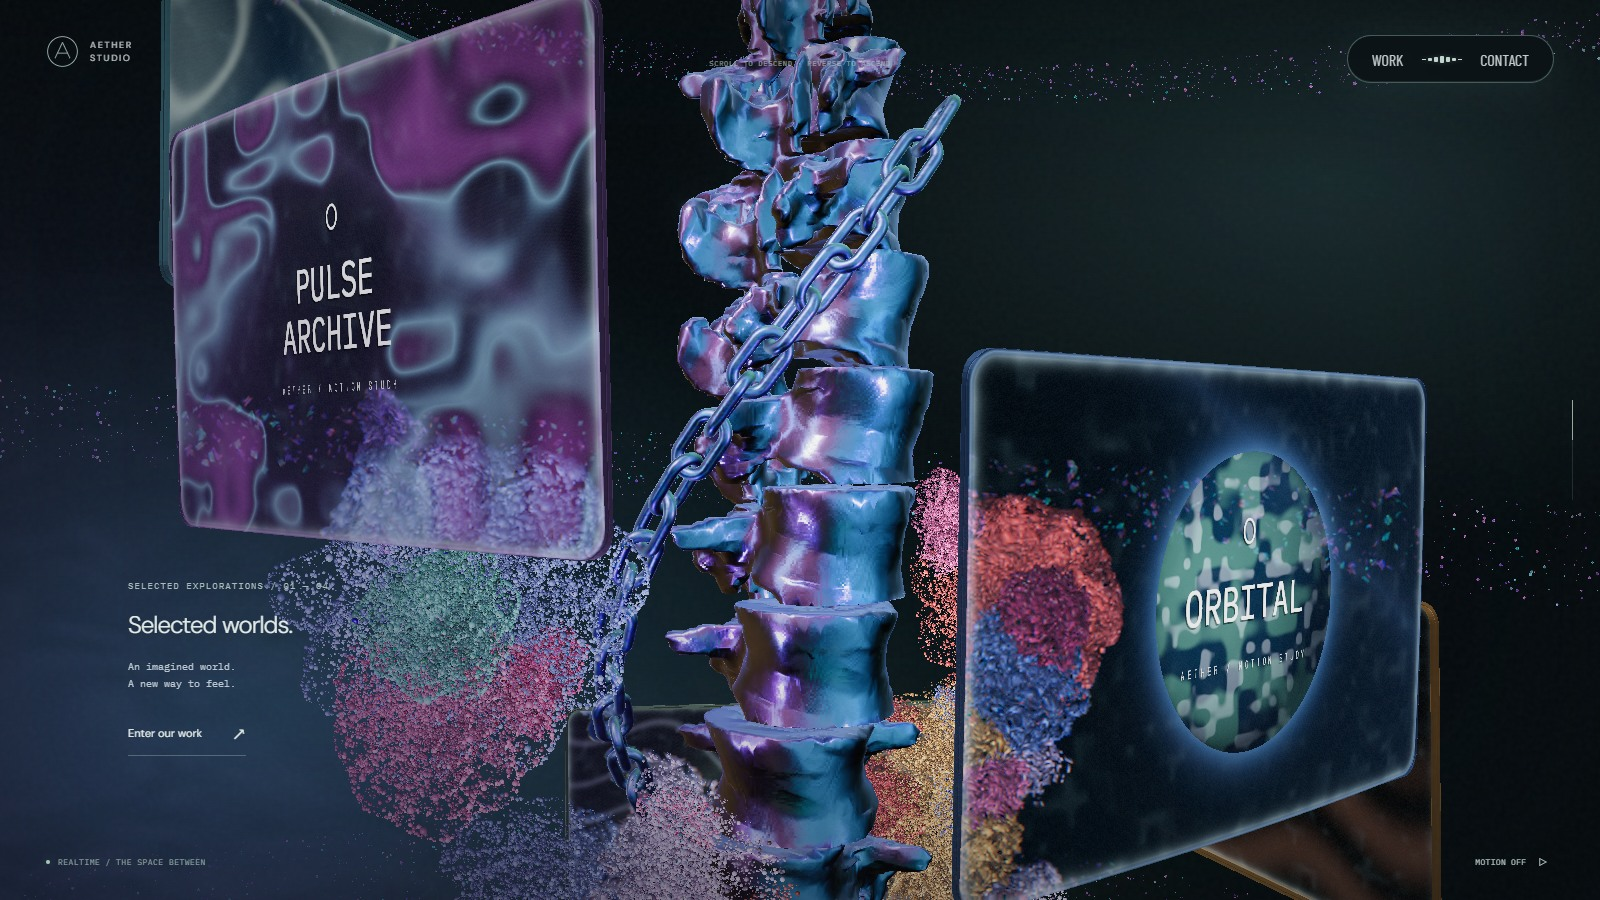
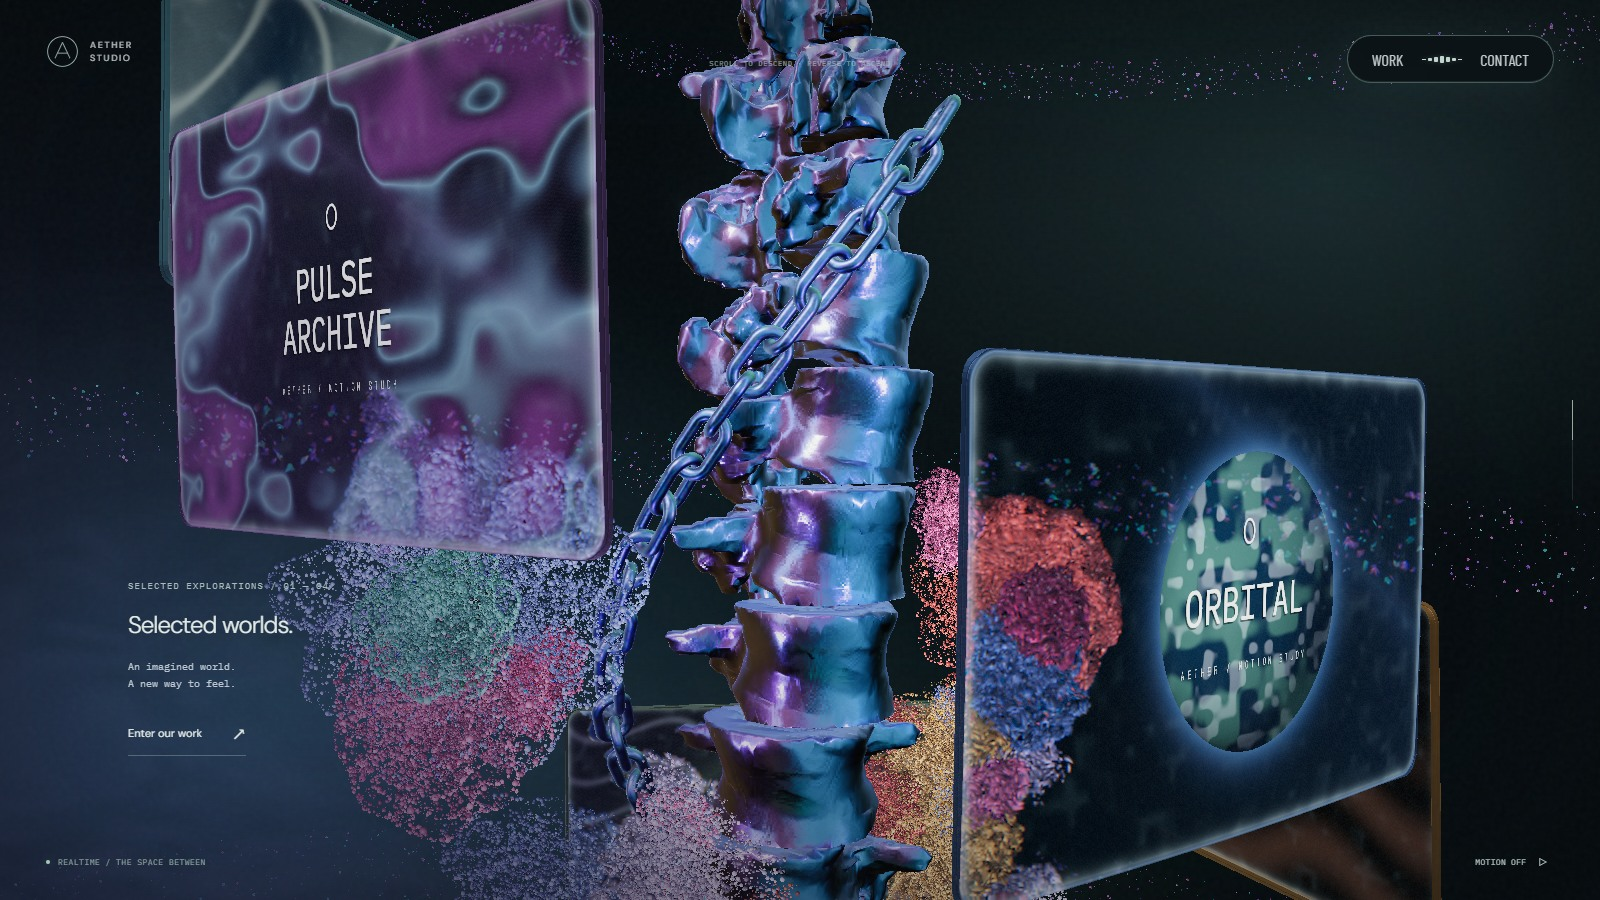
fix: 모니터 입자 간격 검증과 화면 비교 보강

diff --git a/tests/fixtures/height-assembly-harness.ts b/tests/fixtures/height-assembly-harness.ts
@@ -27,8 +27,8 @@ export function probeHeightAssembly() {
   const camera = new THREE.PerspectiveCamera(); camera.position.z = 20
   const monitors = createSceneMonitors(true, false, undefined, [monitorCatalog[0]])
   const parent = new THREE.Group(); parent.position.y = FLOWER_WORLD_Y; parent.add(monitors.group)
-  const read = (cameraY: number, localY: number, baseline = false, blocked = false) => {
-    geometry.getAttribute('aFlowerPosition').setXYZW(0, 0, localY, blocked ? 3.53 : 1, 0)
+  const read = (cameraY: number, localY: number, baseline = false, blocked = false, depth = 3.53) => {
+    geometry.getAttribute('aFlowerPosition').setXYZW(0, 0, localY, blocked ? depth : 1, 0)
     geometry.getAttribute('aFlowerPosition').needsUpdate = true
     geometry.getAttribute('aDust').setW(0, baseline ? -1 : -2)
     geometry.getAttribute('aDust').needsUpdate = true
@@ -55,6 +55,10 @@ export function probeHeightAssembly() {
     const blocked = read(FLOWER_WORLD_Y, 0, true, true)
     const obstacle = monitors.getParticleObstacles()[0]
     const local = new THREE.Vector3(...blocked as [number, number, number]).add(new THREE.Vector3(0,FLOWER_WORLD_Y,0)).applyMatrix4(obstacle.inverse)
+    const approach = Array.from({length: 31}, (_, i) => {
+      const world = read(FLOWER_WORLD_Y, 0, true, true, 2.8 + i * .08)
+      return new THREE.Vector3(...world as [number,number,number]).add(new THREE.Vector3(0,FLOWER_WORLD_Y,0)).applyMatrix4(obstacle.inverse).z
+    })
     const opacities = [.87, .90, .925, .95, 1, .95, .90].map(p => {
       emblem.update(10, p)
       const values: number[] = []
@@ -63,7 +67,7 @@ export function probeHeightAssembly() {
     })
     return { upper, lower, reverse, baseline, local: local.toArray(), clearance: obstacle.half.z,
       count: source.userData.flowerCount, extra: source.userData.reinforcementCount,
-      opacities, error: renderer.getContext().getError() }
+      opacities, approach, error: renderer.getContext().getError() }
   } finally {
     atmosphere.dispose(); monitors.dispose(); emblem.dispose(); chrome.dispose(); filmTexture.dispose()
     geometry.dispose(); material.dispose(); target.dispose(); renderer.dispose(); renderer.forceContextLoss()

diff --git a/tests/fixtures/interaction-harness.ts b/tests/fixtures/interaction-harness.ts
@@ -6,6 +6,7 @@ import { createSceneMonitors } from '../../src/SceneMonitors'
 import { createAtmosphere } from '../../src/Atmosphere'
 import { createSceneForest } from '../../src/SceneForest'
 import { sampleJourney } from '../../src/Journey'
+import { sampleScaleOffset } from '../../src/ScaleStage'
 import { createSceneLayers, sampleEmblemCurtain, sampleLayers } from '../../src/SceneLayers'
 import { bindCurtain, bindGroupCurtain, createCurtainBounds } from '../../src/SceneCurtains'
 import { createLightFilmUniforms } from '../../src/SceneLighting'
@@ -766,8 +767,10 @@ function probeScalePointer() {
   const assembly = createSceneWorlds(modelScene, true)
   const probeScene = new THREE.Scene()
   const probeCamera = new THREE.PerspectiveCamera(42, 4 / 3, .1, 60)
-  probeCamera.position.set(0, -48, 10)
-  probeCamera.lookAt(0, -48, 0)
+  // Follow the panel's scroll offset to isolate pointer shading from framing.
+  const panelY = -48 + sampleScaleOffset(.83)
+  probeCamera.position.set(0, panelY, 10)
+  probeCamera.lookAt(0, panelY, 0)
   probeCamera.updateMatrixWorld()
   assembly.update(10, .83)
   modelScene.updateMatrixWorld(true)
@@ -782,8 +785,8 @@ function probeScalePointer() {
   // fixed oblique key observes the actual hinge shading, without depending
   // on the removed pointer-driven albedo boost or an artificial normal bend.
   const key = new THREE.DirectionalLight(0xffffff, 4)
-  key.position.set(-4, -43, 6)
-  key.target.position.set(0, -48, 0)
+  key.position.set(-4, panelY + 5, 6)
+  key.target.position.set(0, panelY, 0)
   probeScene.add(key, key.target)
   const target = new THREE.WebGLRenderTarget(160, 120)
   const previousTarget = renderer.getRenderTarget()

diff --git a/tests/interaction.spec.ts b/tests/interaction.spec.ts
@@ -50,6 +50,9 @@ async function settledScene(page: Page) {
 test('wheel input descends and reverses before 24 settled scroll checkpoints', async ({
   page,
 }) => {
+  // This journey includes two GPU preparations and 24 settled views. Keep
+  // individual action limits while allowing their measured cumulative cost.
+  test.setTimeout(process.env.CI ? 90_000 : 60_000)
   await readyScene(page)
   const startingView = await settledScene(page)
   let previous = startingView
@@ -131,7 +134,9 @@ test('wheel input descends and reverses before 24 settled scroll checkpoints', a
 test('@interaction production scene accepts background drag and excludes navigation buttons', async ({
   page,
 }) => {
-  test.setTimeout(process.env.CI ? 150_000 : 45_000)
+  // Two full GPU rebuilds and 175+ render frames exceeded the old total 45s
+  // budget; each frame wait and input action retains its existing timeout.
+  test.setTimeout(process.env.CI ? 150_000 : 75_000)
   // Freeze ambient animation time while allowing input and camera interpolation
   // to render. A changed image can then be attributed to the held camera.
   await page.addInitScript(() => {

diff --git a/src/MonitorClearance.ts b/src/MonitorClearance.ts
@@ -19,10 +19,12 @@ export const monitorClearanceGLSL = /* glsl */ `
       vec3 q = (uMonitorInverse[i] * vec4(world, 1.)).xyz;
       vec3 halfSize = uMonitorHalf[i];
       vec2 edge = 1. - smoothstep(halfSize.xy, halfSize.xy + .22, abs(q.xy));
-      float approach = 1. - smoothstep(halfSize.z, halfSize.z + .9, q.z);
       // Deflect inward before the curved glass, with a soft approach outside
       // its edges. Behind the glass, the flower keeps its original silhouette.
-      float push = min(0., -halfSize.z - q.z) * edge.x * edge.y * approach;
+      // A smooth minimum keeps every approaching seed behind the clearance
+      // plane. A depth fade could interpolate a seed back through the glass.
+      float gap = -halfSize.z - q.z;
+      float push = .5 * (gap - sqrt(gap * gap + .016)) * edge.x * edge.y;
       world += uMonitorNormal[i] * push;
     }
     return world;

diff --git a/tests/living-flow.spec.ts b/tests/living-flow.spec.ts
@@ -128,9 +128,12 @@ test('@interaction particle flow keeps anchors separate and stops its scroll dri
     expect(movingFraction).toBeGreaterThan(.18)
     expect(movingFraction).toBeLessThanOrEqual(.2)
     expect(roles.length).toBeGreaterThan(baseCount)
+    const flowerCount = particles.userData.flowerCount as number
+    expect(particles.userData.reinforcementCount).toBe(Math.floor(flowerCount * .4))
+    expect(roles.length).toBe(baseCount + flowerCount + particles.userData.reinforcementCount)
     for (let i = baseCount; i < roles.length; i++) {
       expect(roles[i]).toBe(0)
-      expect(bokeh.getW(i)).toBe(-1)
+      expect(bokeh.getW(i)).toBe(i < baseCount + flowerCount ? -1 : -2)
       expect((bokeh.getX(i) * 7.13) % 1).toBeLessThan(.22)
     }
     for (let i = 0; i < roles.length; i++) if (bokeh.getW(i) > .5) expect(roles[i]).toBe(0)

diff --git a/tests/height-assembly.spec.ts b/tests/height-assembly.spec.ts
@@ -19,6 +19,8 @@ test('@interaction flowers reinforce by camera height, preserve baseline, revers
     expect(poses[i][0]).toBe(poses[0][0]); expect(poses[i][2]).toBe(poses[0][2])
   }
   expect(r.local[2]).toBeLessThanOrEqual(-r.clearance + .00001)
+  for (const depth of r.approach) expect(depth).toBeLessThan(-r.clearance)
+  for (let i = 1; i < r.approach.length; i++) expect(Math.abs(r.approach[i] - r.approach[i-1])).toBeLessThan(.095)
   expect(r.count).toBe(9000); expect(r.extra).toBe(3600)
   // Lower ring material alpha stays constant through both directions of the cut.
   for (const values of r.opacities) expect(values.slice(0, 2)).toEqual([1, 1])

diff --git a/tests/lighting.spec.ts b/tests/lighting.spec.ts
@@ -136,7 +136,7 @@ test('@interaction forest soil and rooted plants persist independently of the wr
     expect(plants.position.y).toBe(-8.7)
     expect(edge(lower).position.y).toBe(-8.7)
     scene.updateMatrixWorld(true)
-    expect(edge(lower).getWorldPosition(new THREE.Vector3()).y).toBeCloseTo(-48.6, 6)
+    expect(edge(lower).getWorldPosition(new THREE.Vector3()).y).toBeCloseTo(-51.6, 6)
     const down = new THREE.Vector3(0,1,0).transformDirection(lower.matrixWorld)
     expect(down.y).toBeCloseTo(-1, 6)
     expect(kinds.count).toBeGreaterThan(5000)

diff --git a/tests/forest-world.spec.ts b/tests/forest-world.spec.ts
@@ -14,6 +14,6 @@ test('@interaction real forest ground keeps its projection when only the wrapper
     expect(p.wrapperMoved).toEqual(p.initial)
     expect(p.restored).toEqual(p.initial)
     expect(Math.abs(p.cameraMoved[0] - p.initial[0])).toBeGreaterThan(.01)
-    expect(p.initial[2]).toBeCloseTo(lower ? -48.6 : -9.9, 1)
+    expect(p.initial[2]).toBeCloseTo(lower ? -51.6 : -9.9, 1)
   }
 })

diff --git a/docs/height-assembly-2026-09-26.md b/docs/height-assembly-2026-09-26.md
@@ -26,12 +26,15 @@
 | --- | --- | --- | --- |
 | 상단 포레스트 · 0% | ![전](verification/height-assembly/forest-top-before.jpg) | ![후](verification/height-assembly/forest-top-after.jpg) | 식물 높이와 첫 화면의 여백 |
 | 하단 포레스트 · 100% | ![전](verification/height-assembly/forest-bottom-before.jpg) | ![후](verification/height-assembly/forest-bottom-after.jpg) | 낮아진 식물과 보강 전 위치 |
+| 좌측 문구 · 15% | ![전](verification/height-assembly/text-before.jpg) | ![후](verification/height-assembly/text-after.jpg) | `/` 방향 빛 번짐 |
 | 본 컬럼 · 40% | ![전](verification/height-assembly/column-before.jpg) | ![후](verification/height-assembly/column-after.jpg) | 마디 간격·반사·추가 입자 |
 | 모니터와 꽃 · 46% | ![전](verification/height-assembly/flowers-before.jpg) | ![후](verification/height-assembly/flowers-after.jpg) | 유리면 주변의 입자 배치 |
 | 하단 링 진입 · 91% | ![전](verification/height-assembly/ring-before.jpg) | ![후](verification/height-assembly/ring-after.jpg) | 경계 뒤 링의 완성된 형태 |
 
+문구가 모두 드러난 [22% 지점의 수정 후 화면](verification/height-assembly/text-full-after.jpg)에서도 사선 빛 번짐을 확인했다.
+
 ## 검증 범위
 
-GPU 셰이더 검사에서 기존 꽃의 위치·밀도 유지, 추가 입자의 수직 이동·역방향 복원, 모니터 유리면과의 간격, 하단 링의 일정한 알파를 확인했다. 포레스트 높이·이동 입자 비율·높이별 합류와 패널의 연속 상승도 검사한다. 전체 실행 결과는 PR 검증란에 기록한다.
+GPU 셰이더 검사에서 기존 꽃의 위치·밀도 유지, 추가 입자의 수직 이동·역방향 복원, 모니터 유리면과의 간격, 하단 링의 일정한 알파를 확인했다. 모니터로 접근하는 31개 깊이에서도 유리면 앞뒤를 통과하지 않고 연속 이동하는지 검사했다. 포레스트 높이·이동 입자 비율·높이별 합류와 패널의 연속 상승도 검사한다. 전체 실행 결과는 PR 검증란에 기록한다.
 
 실제 GPU 화면은 1600×900, 2480×1080, 390×844에서 확인했다. 모바일은 Chromium 에뮬레이션이며 실제 Safari/iOS와 저사양 GPU의 장시간 성능은 확인하지 않았다. 꽃의 추가 입자는 일반 데스크톱 120,000개, 모바일 38,000개, 소프트웨어 모드 3,600개다. AT와 동일한 자산이나 물리 시뮬레이션을 사용한 것은 아니다.
